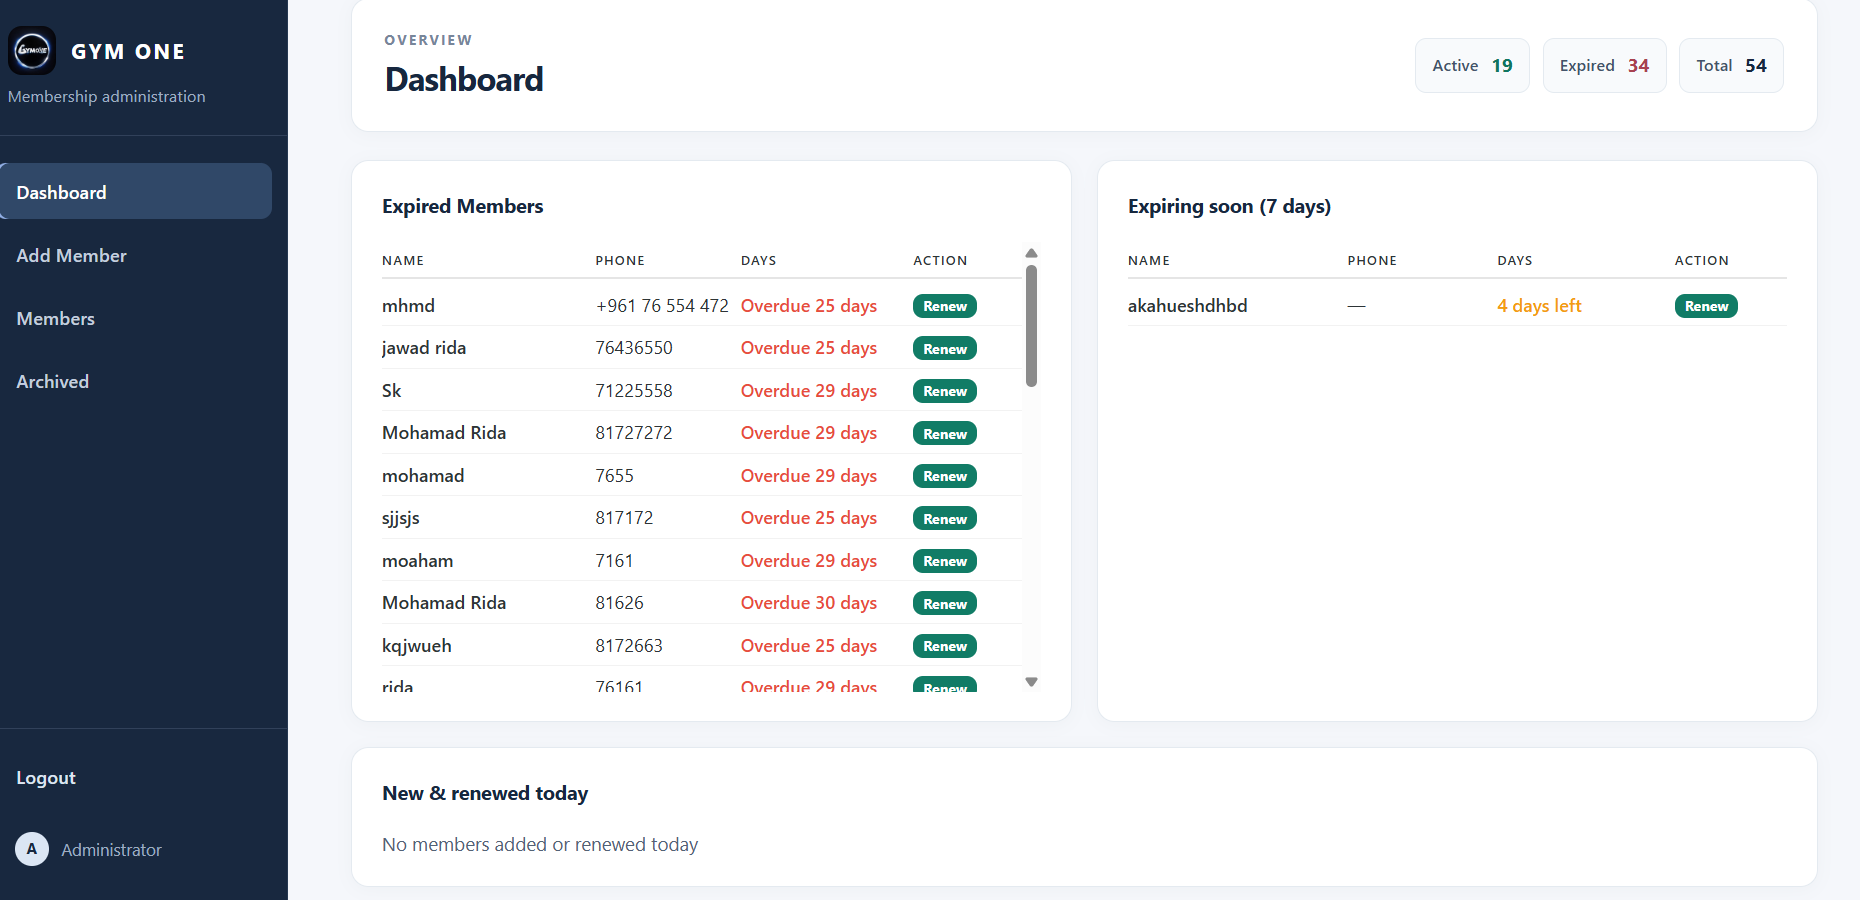
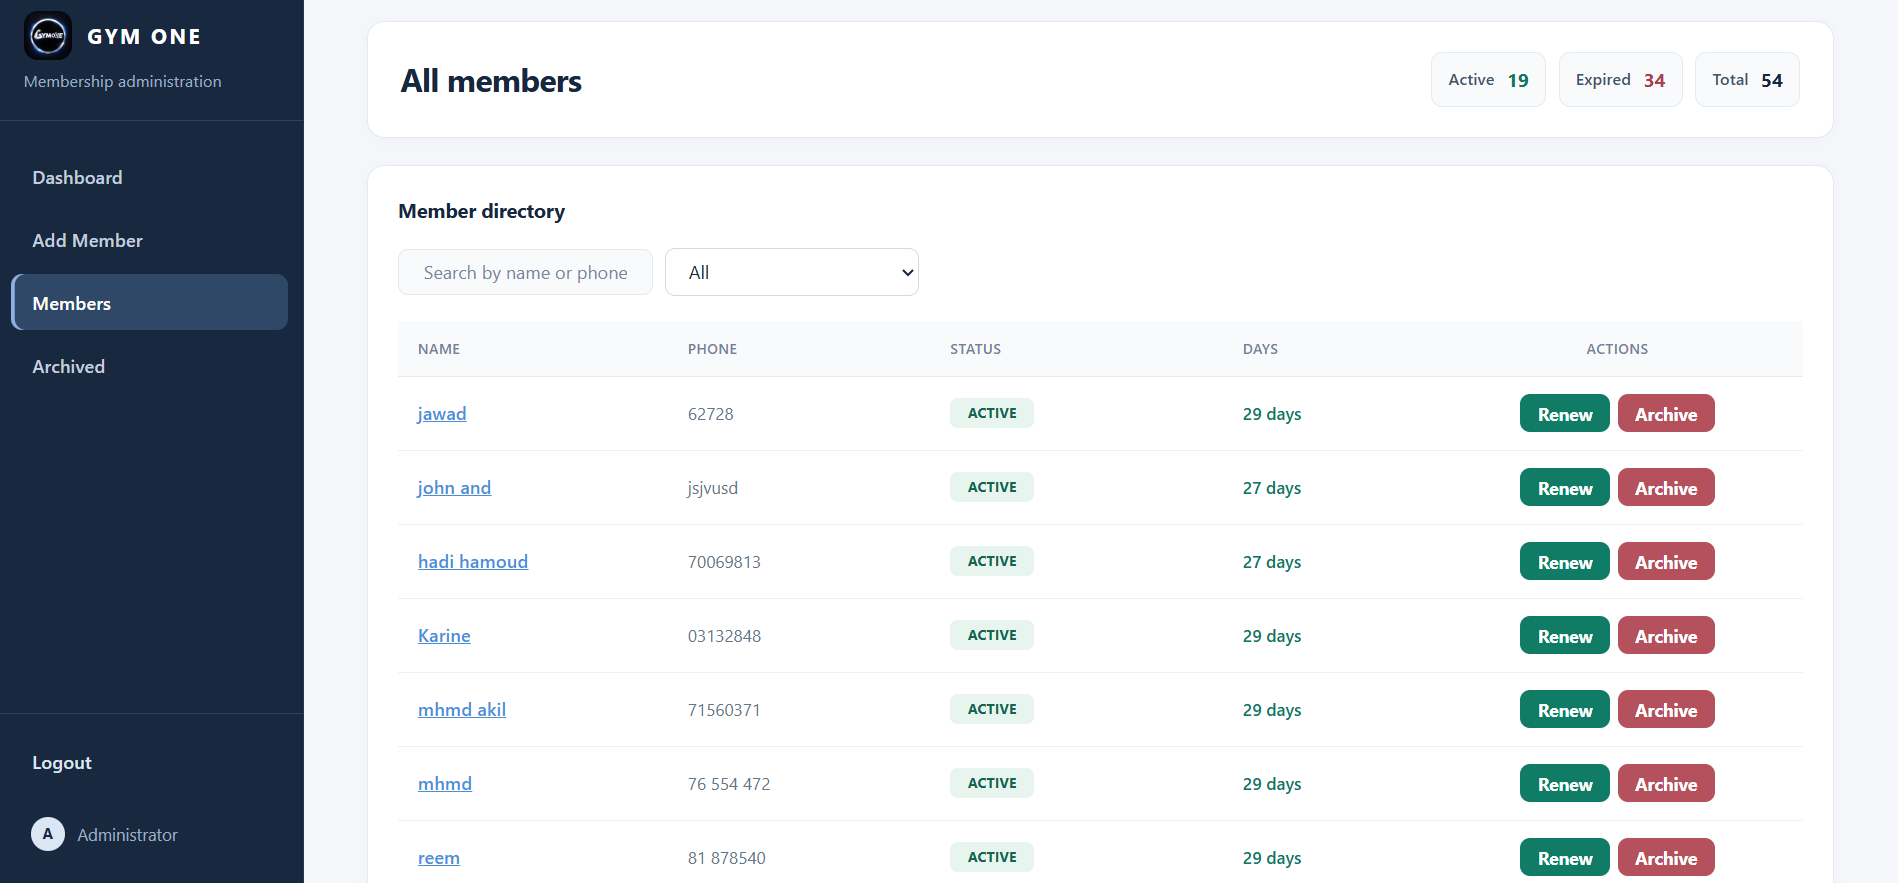
Update Gym Manager

diff --git a/README.md b/README.md
@@ -82,3 +82,6 @@ The live application requires administrator authentication. Login credentials ar
 
 ### Archived Members
 ![Archived member management](screenshots/archived.png)
+
+### Mini Member Details
+![Member Details](screenshots/member-details.png)
